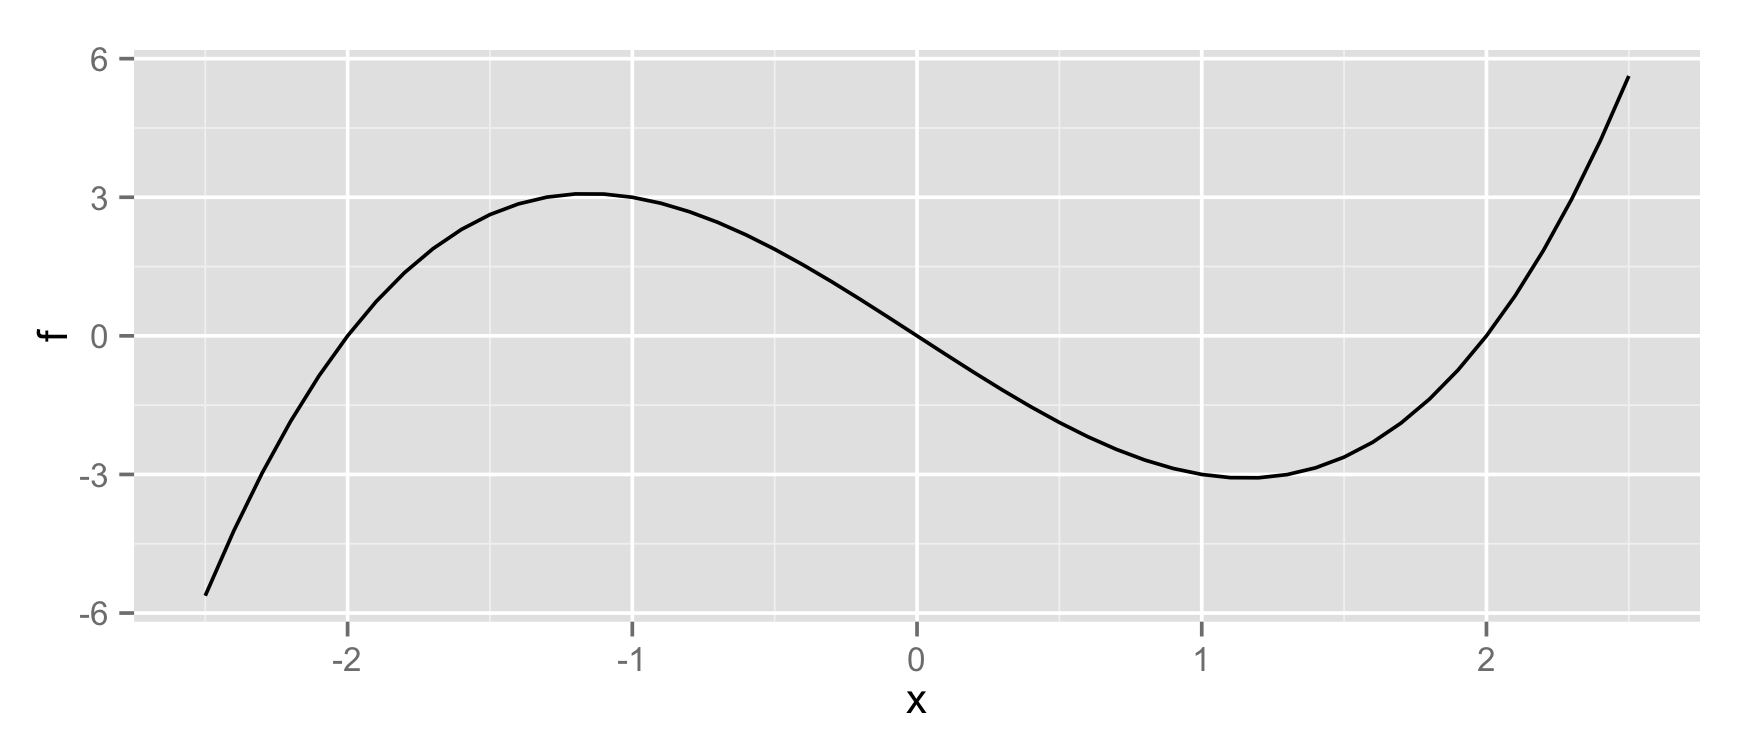
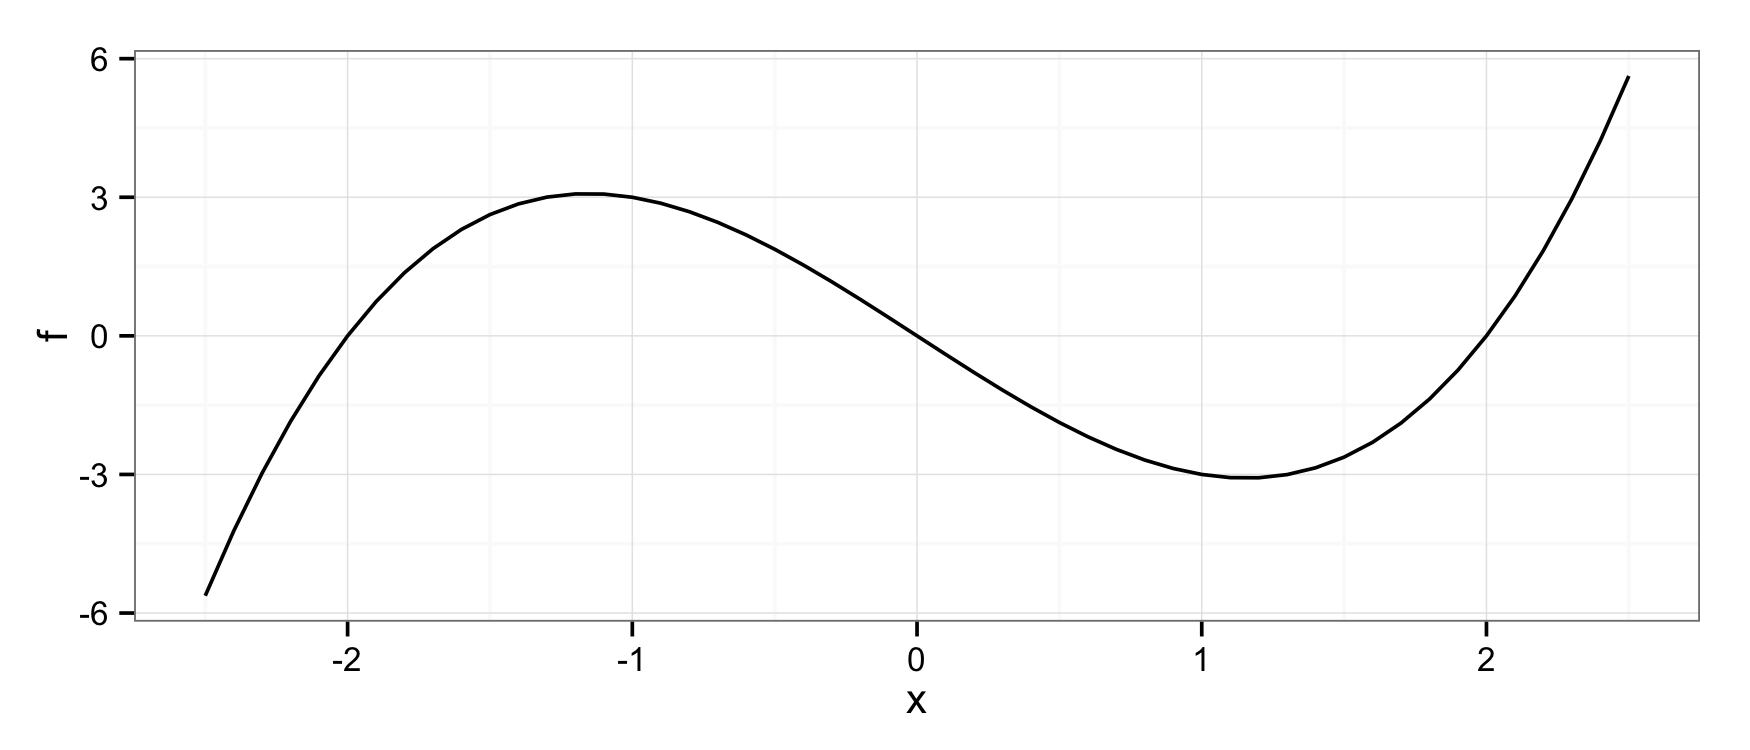
readme: theme_bw()

diff --git a/README.md b/README.md
@@ -100,7 +100,7 @@ s <- seq(-2.5, 2.5, .1)
 df <- expand.grid(x = s)
 df$f <- apply(df, 1, f)
 
-library(ggplot2)
+library(ggplot2); theme_set(theme_bw())
 qplot(x, f, data = df, geom = "line")
 ```
 
@@ -266,7 +266,7 @@ df$y <- with(df, -x^2 + 2*x - 3 + rnorm(n, 0, 2))
 
 mod <- lm(y ~ x + I(x^2), data = df)
 (p <- round(as.mpoly(mod)))
-#> 1.871 x  -  0.953 x^2  -  3.628
+#> 1.967 x  -  0.988 x^2  -  2.867
 qplot(x, y, data = df) +
   stat_function(fun = as.function(p), colour = 'red')
 #> f(x)
@@ -280,7 +280,7 @@ qplot(x, y, data = df) +
 df <- df %>% dplyr::arrange(x)
 bezier(df)
 #> 28872395762264 t^100  -  5550227924394919 t^99  +  257524164448643584 t^98  -  5486432867534512128 t^97  +  86208461136174137344 t^96  -  973010044920159272960 t^95  +  8952262427000620187648 t^94  -  67665901937709090340864 t^93  +  413990207181983714377728 t^92  -  2169648063017396838858752 t^91  +  10215623171201757442211840 t^90  -  39429210673083588267737088 t^89  +  150081716298764745747464192 t^88  -  473299688194303653230673920 t^87  +  1348855346913026284370001920 t^86  -  3156830666010080949250818048 t^85  +  6855660878345967534732214272 t^84  -  13080372818096327189527003136 t^83  +  20394058314951326409859006464 t^82  -  27256940070137478833571364864 t^81  +  6459914346417121991722008576 t^80  +  103388391896093539120996941824 t^79  -  219369275208381341256969617408 t^78  +  529849505358297756001170882560 t^77  -  783428481883374495840442777600 t^76  +  743090679812620047625041739776 t^75  -  558818244850077171250341347328 t^74  -  588500412268868497049934364672 t^73  +  3075636049710386057135895085056 t^72  -  7954610812548359449273008390144 t^71  +  13677856902254243196614922469376 t^70  -  22742902163759437548928928579584 t^69  +  29929099021496484473668200562688 t^68  -  40005171731953237029066377265152 t^67  +  47864067339349913582343674658816 t^66  -  51094400443405685832525870530560 t^65  +  51957289803458760243366821101568 t^64  -  48565193792952596399581174956032 t^63  +  43648217566029392046514679840768 t^62  -  34783739347831105551196491874304 t^61  +  28524044080840596297641296396288 t^60  -  20172097643046226110678755704832 t^59  +  14199159114177952601400772919296 t^58  -  8752251235151295733634829385728 t^57  +  5404985595102540094976567541760 t^56  -  3070974734811738428743587201024 t^55  +  1645724795326103330266139328512 t^54  -  788503307288013844192474169344 t^53  +  360516598093264815070812045312 t^52  -  192040539511304517416065695744 t^51  +  66611726612375980764529950720 t^50  -  22841552835608605503606751232 t^49  +  10698167749078122504405385216 t^48  -  2905945292218340066841329664 t^47  +  902063553696400928183156736 t^46  -  154027121108748591477817344 t^45  +  45438717983452145232379904 t^44  +  42490471362746196848279552 t^43  -  8260557059996748884213760 t^42  -  3680409646682820482957312 t^41  +  611482392671321338150912 t^40  +  314313161988459437490176 t^39  -  223528014571938540158976 t^38  +  27122143965670591692800 t^37  +  179189880031526518784 t^36  -  1379147002511253045248 t^35  -  734604924935349469184 t^34  -  379871758682612039680 t^33  -  23546653524482850816 t^32  +  3419556788167507968 t^31  +  57207736022073344 t^30  +  509180901360402432 t^29  +  80997336536317952 t^28  -  862389167718400 t^27  +  2496312570281984 t^26  +  628358949896192 t^25  -  139691160502272 t^24  -  22050261434368 t^23  -  1118587322368 t^22  +  250315014144 t^21  -  18695323648 t^20  +  10307043328 t^19  -  1029865472 t^18  +  80531456 t^17  -  24364032 t^16  +  514688 t^15  +  36608 t^14  +  6776 t^13  -  1372 t^12  +  4 t^11  -  0.1240234 t^9  +  0.0078125 t^8  +  0.00006103516 t^7  -  0.0000004768372 t^5  +  10 t  -  5
-#> 146119339006571593841908908032 t^100  -  9052993123300511185001802366976 t^99  +  258890263388882321170852910989312 t^98  -  4644505162723090726041667961356288 t^97  +  59328260021285178441534195506348032 t^96  -  577498189580520622981541729012809728 t^95  +  4459001112710313504643096203457724416 t^94  -  27955957690961140948639986825203548160 t^93  +  143726908114189506885049154896184475648 t^92  -  601938380475435973503944133304198889472 t^91  +  1973645403957173468215817177767555891200 t^90  -  4325414094436173511883452102198297624576 t^89  +  76434897879047818847955078785695481856 t^88  +  59742303414625376702068432741863790739456 t^87  -  386851089029387030305064465736878006468608 t^86  +  1716119456991726705144632828455612347056128 t^85  -  6217610364858308710777711601227471830122496 t^84  +  19490628356895376418715439082002349364871168 t^83  -  54343747414259822786674262520302828903202816 t^82  +  136972875428532002272446684621359417099550720 t^81  -  315498465382762831060978792350391954554486784 t^80  +  669430043632520909956774097669601290532945920 t^79  -  1316687902800249594620656554779100061523509248 t^78  +  2413072735840781636988348005847263543233085440 t^77  -  4138667032764027933531350001121829026885795840 t^76  +  6667564117755207575708752378099655639836917760 t^75  -  10121761261290671097074653368616496308477231104 t^74  +  14516160420953502794917677689565243843809378304 t^73  -  19707690988852083668739226942022634957105528832 t^72  +  25365546498225877695348522063612012953581125632 t^71  -  30979361129142222438246386929432916102228213760 t^70  +  35916117937794153877086283828607379716666556416 t^69  -  39524115958635855803602507863419176836891934720 t^68  +  41265508459661637654736132701251859480838144000 t^67  -  40843471572069647194107401908046940782957953024 t^66  +  38283958814905014394153025531150057212062203904 t^65  -  33941272660675192227066230073503857164955942912 t^64  +  28420564156219200398851220088826255793633361920 t^63  -  22439741304152206986854272169345569829408473088 t^62  +  16674689402433541551267958506590875274692263936 t^61  -  11635018943671023293085622184664346155699666944 t^60  +  7601917617031773761013777587150521794918612992 t^59  -  4633801620216207999300235175075061792426164224 t^58  +  2622024414547700776611793231688878574192820224 t^57  -  1367301737620248210203743530395647900502720512 t^56  +  649652076696979816916800731991171794951208960 t^55  -  275762164263142887290069388412359413094940672 t^54  +  100503330339833305291890572003136251042463744 t^53  -  28321142972184518184031202915279146504421376 t^52  +  3544152280138326425287274305503824227336192 t^51  +  2469752680654340657479410596975219256066048 t^50  -  2547852663838847699445689121824483043180544 t^49  +  1504887263892687677628777529533082579763200 t^48  -  696519481688293780438949851783924958625792 t^47  +  270250211931600806985501946103807348834304 t^46  -  89473396233664857364969366870114441363456 t^45  +  25317676533245651330223308449770113073152 t^44  -  6211757960229727843754380966241157251072 t^43  +  1494225342090384407280836343474205753344 t^42  -  505737850611212596798650861441553268736 t^41  +  267991679826488082231156420155252146176 t^40  -  153725345696327149439712307680473251840 t^39  +  78833197952115186176975145652138803200 t^38  -  35246287955451830874329458612778303488 t^37  +  13899578689680273353413579448571133952 t^36  -  4902823691638931339968308363386683392 t^35  +  1563862912332382250459852405410365440 t^34  -  454722421606916618561464771683549184 t^33  +  121263749688414783808332704069451776 t^32  -  29810876132527843207466647623303168 t^31  +  6790087027147339906844867432546304 t^30  -  1441293578644712931696213653192704 t^29  +  287121402603124592799878664421376 t^28  -  54116264535752785182897377116160 t^27  +  9725241658655918011200319782912 t^26  -  1674309264983306903391874056192 t^25  +  275792887800966714156258426880 t^24  -  43078571199000096066815131648 t^23  +  6277002560254655592231075840 t^22  -  833438495131151102273126400 t^21  +  97479500515929473989738496 t^20  -  9448567237188495188426752 t^19  +  639288021581396466204672 t^18  -  1708971636148763099136 t^17  -  8444144582188368658432 t^16  +  1743600971687622082560 t^15  -  242216004302287077376 t^14  +  26818828941335576576 t^13  -  2481253221762149888 t^12  +  194702235039416096 t^11  -  12959164405515508 t^10  +  724415860637840 t^9  -  33472119409972 t^8  +  1266075854045 t^7  -  40472129130 t^6  +  1226802237 t^5  -  38175415 t^4  +  1043890 t^3  -  22232.3 t^2  +  570.2998 t  -  42.21907
+#> 953447944150441057472508592128 t^100  -  49628401649238495812538297483264 t^99  +  1272825330165898451075466239410176 t^98  -  21432705324160650669075456424148992 t^97  +  266408645944620687529820819403309056 t^96  -  2606000727456894166591865427255623680 t^95  +  20886963295292035614170305320340946944 t^94  -  141029182402916404025556821058422571008 t^93  +  818638844093169084688045199731260915712 t^92  -  4149254562471328688331124608677724553216 t^91  +  18590539077113182386313030228635004436480 t^90  -  74376282111467527527488961273141294792704 t^89  +  267965520024292024285571474429556796948480 t^88  -  875800299898913574264505847784643883958272 t^87  +  2613553204690580939362308401929817595838464 t^86  -  7163406704467147223308315759428515059990528 t^85  +  18132376008161442643087918865796553783640064 t^84  -  42609100410391506825692862216087546001096704 t^83  +  93421319575730433899017668691294511807070208 t^82  -  192043796130156443928669773212825390617198592 t^81  +  371875794033726464580832530984430672677961728 t^80  -  681315160362074850006664318564036777930129408 t^79  +  1185686129942261801869640534701629910185672704 t^78  -  1966577112969358954074745400935023438326661120 t^77  +  3116533837907749693664011415267317038798864384 t^76  -  4726640578940475104563620966117303644783116288 t^75  +  6865033925051299706646822567102611083361255424 t^74  -  9546731817648635490688795155840318931927564288 t^73  +  12699669047367582775204005725098507752655814656 t^72  -  16137403849394094692254058199809088980376354816 t^71  +  19552765976616480811297108836043765427656982528 t^70  -  22545216209287340791958295263826104417087651840 t^69  +  24685849192581518413345501936082076582532874240 t^68  -  25609460880390490152638331190442072769331986432 t^67  +  25108709482135052421940904625354026777533480960 t^66  -  23198723743105241325514004356125530227663175680 t^65  +  20126726702266085545846294074194666148839030784 t^64  -  16319439640395120330837721097524089326044971008 t^63  +  12283782438837408308258929587189121321057386496 t^62  -  8493297738102239878401216241921886078139105280 t^61  +  5296063253172831525782812120281333088433209344 t^60  -  2868765756932356028921265811634224208399040512 t^59  +  1222277847598885846912908706530466305065091072 t^58  -  245891959625468612007014486715269615733178368 t^57  -  232287295842168441750468091106856867228286976 t^56  +  390357412703896168441077302214866167043981312 t^55  -  376221612537073734409831755804563295736692736 t^54  +  292651634819039726758863964605536589037174784 t^53  -  199056939068561385377216534177465659551645696 t^52  +  122168650868839646270419001404882924773310464 t^51  -  68683732902329046923474188176902029750304768 t^50  +  35649781991297491643433405396089872796614656 t^49  -  17147964388812776715899566141677245218947072 t^48  +  7651398220974774094849176365129839505571840 t^47  -  3161883700992091812503142943802568845819904 t^46  +  1204460413830116600780381819751707082489856 t^45  -  418982620347462563179264421257814967582720 t^44  +  130678394164737622645277487702160246308864 t^43  -  35134265168745041893478770178285453180928 t^42  +  7306352441624313478732098365540410589184 t^41  -  633717535706352003089595184775012810752 t^40  -  404726420587988407981686274803776880640 t^39  +  311576597405288072736657114262673555456 t^38  -  144300467291071800823543479711498764288 t^37  +  54006617059568270807556601938456870912 t^36  -  17564193129376455921658578415940272128 t^35  +  5106165690903510195411799173060624384 t^34  -  1344719253433501846888795205592416256 t^33  +  323068179520179052321836996665278464 t^32  -  71118080214328538273621716601143296 t^31  +  14400261665738843041550597017829376 t^30  -  2696460830571243598864734882889728 t^29  +  471265794955592333316237664714752 t^28  -  78102950875259662633285304975360 t^27  +  12570676189700534045546054156288 t^26  -  2020619794539670465556900741120 t^25  +  330986170000309341931408719872 t^24  -  55252089826731913602540765184 t^23  +  9219822850585982215863140352 t^22  -  1498718094606121530338312192 t^21  +  232252302923985932875988992 t^20  -  33809459723713781595897856 t^19  +  4578011227519415249534976 t^18  -  572341211554706211471360 t^17  +  65647043123345904107520 t^16  -  6869865820290383085568 t^15  +  652989657222783565824 t^14  -  56189277581563265024 t^13  +  4365348781548144640 t^12  -  305093000570012608 t^11  +  19050632926285788 t^10  -  1049422845070554 t^9  +  49966870297368 t^8  -  1998660017546 t^7  +  65085431860 t^6  -  1704077581 t^5  +  38003614 t^4  -  820578.4 t^3  +  17579.2 t^2  -  224.6585 t  -  34.78268
 ```
 
 Installation
